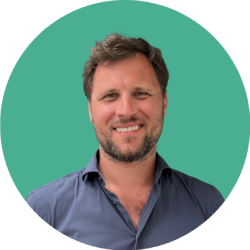
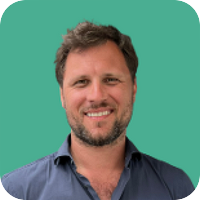
Update signature

diff --git a/public/mail/vspiewak.html b/public/mail/vspiewak.html
@@ -1,49 +1,32 @@
-<style type="text/css">
-@import url(https://fonts.googleapis.com/css?family=Montserrat);
-</style>
-
-<table width="392" border="0" cellspacing="0" cellpadding="0" style="font-family: Montserrat, Arial, Helvetica, sans-serif;">
-<tbody>
-  <tr>
-    <td width="121" style="border-right:#5d5d5d solid 1px; padding-right:10px; "><img src="https://vspiewak.com/mail/assets/picture.png" width="125" height="125" alt=""></td>
-    <td width="440" style="padding-left:20px;"><table width="98%" border="0" cellspacing="0" cellpadding="0">
-      <tr>
-        <td style="font-size:16px; color:#333333; font-weight:bold;">VINCENT SPIEWAK</td>
-      </tr>
-      <tr>
-        <td style="font-size:11px; color:#5d5d5d; padding-top:3px;  font-weight:bold;">Architecte Cloud &amp; BigData</td>
-      </tr>
-      <tr>
-        <td valign="bottom" style="font-size:11px; color:#999999; line-height:20px; ">
-					<table style="font-size:12px; color:#999999; line-height:20px; padding-top:10px;" width="100%" border="0" cellspacing="0" cellpadding="0">
-          <tr>
-            <td width="9%"><img src="https://vspiewak.com/mail/assets/phone.png" width="12" height="12" alt="" /></td>
-            <td width="91%">+33 7 61 10 88 05</td>
-            </tr>
-          </table>
-				</td>
-      </tr>
-      <tr>
-        <td>
-					<table style="font-size:12px; color:#999999; line-height:20px; padding-top:0px;" width="100%" border="0" cellspacing="0" cellpadding="0">
-          <tr>
-            <td width="9%"><a href="https://vspiewak.com" style="color:#999; text-decoration:none;"><img style="vertical-align:central;" src="https://vspiewak.com/mail/assets/chrome.png" width="12" height="12" alt="" /></a></td>
-            <td width="91%" ><a href="https://vspiewak.com" style="color:#999; text-decoration:none;">https://vspiewak.com</a></td>
-          </tr>
-          <tr>
-            <td colspan="2" style="padding-top:7px;">
-							<a href="https://linkedin.com/in/vspiewak"><img style="padding-right:5px;" src="https://vspiewak.com/mail/assets/linkedin.png" width="24" height="24" alt="" /></a>
-              <a href="https://x.com/vspiewak"><img style="padding-right:5px;" src="https://vspiewak.com/mail/assets/twitter.png" width="24" height="24" alt="" /></a>
-              <a href="https://github.com/vspiewak"><img style="padding-right:5px;" src="https://vspiewak.com/mail/assets/github.png" width="24" height="24" alt="" /></a>
-						</td>
-            </tr>
-          </table>
-				</td>
-      </tr>
-      </table>
-		</td>
-  </tr>
-</tbody>
+<table cellspacing="0" style="font-family:Arial;background:transparent;font-size:13px;color:rgb(0,0,0);line-height:1.2;display:inline-table">
+  <tbody>
+     <tr style="color:inherit">
+        <td style="color:inherit;white-space:normal" rowspan="1" colspan="1">
+           <table style="width:100%;border-collapse:separate;font-family:Arial;background:transparent;font-size:13px;color:rgb(0,0,0);line-height:1.2" cellspacing="0">
+              <tbody>
+                 <tr style="height:auto;color:inherit">
+                    <td style="color:inherit;white-space:normal" rowspan="1" colspan="1">
+                       <table style="width:100%;height:100%;border-collapse:separate;font-family:Arial;background:transparent;font-size:13px;color:rgb(0,0,0);line-height:1.2" cellspacing="0">
+                          <tbody>
+                             <tr style="color:inherit">
+                                <td style="color:inherit;text-align:left;height:93px;width:80px;white-space:normal;border-width:initial;border-style:initial;border-color:rgb(255,255,255)" rowspan="1" colspan="1" height="93px" width="80px"><img width="80" height="80" style="width:80px;height:80px;border-radius:10%" src="https://vspiewak.com/mail/assets/picture.png" alt="Vincent Spiewak"></td>
+                                <td style="color:inherit;width:329px;height:93px;text-align:left;padding:0px 0px 0px 20px;white-space:normal;border-left:0px none rgb(255,255,255);border-top:0px none rgb(255,255,255);border-bottom:0px none rgb(255,255,255)" rowspan="1" colspan="1" width="329px" height="93px">
+                                   <div style="white-space:normal">
+                                      <p style="white-space:normal;margin:0px">
+                                          <span style="color:#000000;"><strong><span style="font-size:15px">Vincent Spiewak<br></span></strong></span>
+                                          <span style="color:#7e8c8d"><strong>Architecte Cloud &amp; BigData<br></strong></span>
+                                          <span style="color:#bdc3c7"></span><br><span style="color:#bdc3c7">+33 7 61 10 88 05</span>
+                                      </p>
+                                   </div>
+                                </td>
+                             </tr>
+                          </tbody>
+                       </table>
+                    </td>
+                 </tr>
+              </tbody>
+           </table>
+        </td>
+     </tr>
+  </tbody>
 </table>
-
-Lorem ipsum, Lorem ipsum, Lorem ipsum, Lorem ipsum, Lorem ipsum, Lorem ipsum, Lorem ipsum, Lorem ipsum, Lorem ipsum, Lorem ipsum, Lorem ipsum, Lorem ipsum, Lorem ipsum, Lorem ipsum, Lorem ipsum, Lorem ipsum, Lorem ipsum, Lorem ipsum, Lorem ipsum, Lorem ipsum, Lorem ipsum, Lorem ipsum, Lorem ipsum, Lorem ipsum, Lorem ipsum, Lorem ipsum, Lorem ipsum, Lorem ipsum, Lorem ipsum, Lorem ipsum, Lorem ipsum, Lorem ipsum, Lorem ipsum, Lorem ipsum, Lorem ipsum, Lorem ipsum, Lorem ipsum, Lorem ipsum, Lorem ipsum, Lorem ipsum, Lorem ipsum, Lorem ipsum, Lorem ipsum, Lorem ipsum, Lorem ipsum, Lorem ipsum, Lorem ipsum, Lorem ipsum, Lorem ipsum, Lorem ipsum, Lorem ipsum, Lorem ipsum, Lorem ipsum, Lorem ipsum, Lorem ipsum, Lorem ipsum
